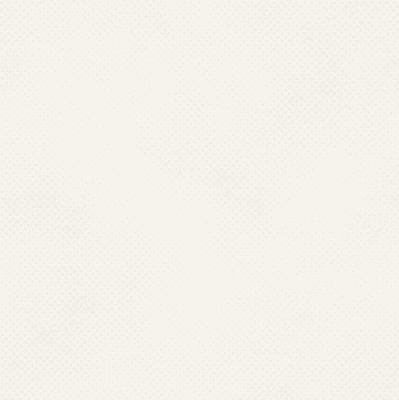
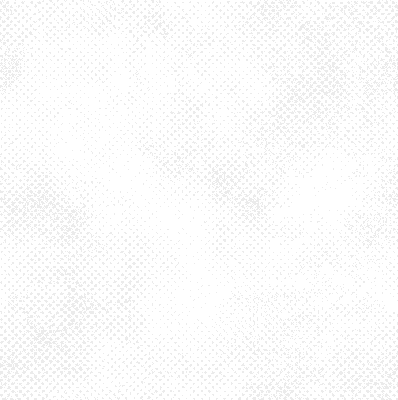
fixed background and social box

diff --git a/css/master.css b/css/master.css
@@ -2,9 +2,8 @@ a {
   color: #947848; }
 
 body {
-  background-image: url('../img/bkg-3.png'), -webkit-gradient(linear, left top, right top, from(black), color-stop(32%, white), color-stop(68%, white), to(black));
-  background-image: url('../img/bkg-3.png'), -webkit-linear-gradient(left, black 0%, white 32%, white 68%, black 100%);
-  background-image: url('../img/bkg-3.png'), linear-gradient(to right, black 0%, white 32%, white 68%, black 100%); }
+  background-image: url('../img/bkg-3.png'), -webkit-radial-gradient(center, ellipse, #FBF4E7 40%, #88682E 110%);
+  background-image: url('../img/bkg-3.png'), radial-gradient(ellipse at center, #FBF4E7 40%, #88682E 110%); }
 
 /* wrapper */
 .wrapper, .wrap {
@@ -28,6 +27,8 @@ body {
 header 
 ==========================================================*/
 .header {
+  position: relative;
+  z-index: 2;
   height: 680px;
   background: url('../img/home-bkg-1.jpg');
   background-size: cover;
@@ -56,7 +57,7 @@ logo
 .logo {
   top: -32px;
   right: 0;
-  width: 620px;
+  width: 625px;
   display: block;
   position: absolute;
   padding: 10px; }
@@ -142,7 +143,7 @@ banner
 footer items
 =================================================================== */
 .footer-items {
-  padding: 25px 0;
+  padding: 0 0;
   color: #525252; }
   .footer-items ul {
     padding-left: 0; }
@@ -186,7 +187,17 @@ footer {
   background: url('../img/home-bkg-2.jpg');
   background-size: cover;
   -webkit-box-shadow: 0 1px 8px rgba(0, 0, 0, 0.8);
-          box-shadow: 0 1px 8px rgba(0, 0, 0, 0.8); }
+          box-shadow: 0 1px 8px rgba(0, 0, 0, 0.8);
+  position: relative;
+  z-index: 2; }
+
+.bkg-3 {
+  background: url('../img/bkg-3.png'), -webkit-radial-gradient(center, ellipse, #FBF4E7 40%, #88682E 110%);
+  background: url('../img/bkg-3.png'), radial-gradient(ellipse at center, #FBF4E7 40%, #88682E 110%);
+  -webkit-box-shadow: 0 1px 8px rgba(0, 0, 0, 0.8);
+          box-shadow: 0 1px 8px rgba(0, 0, 0, 0.8);
+  position: relative;
+  z-index: 1; }
 
 .black-trans {
   background: rgba(12, 12, 12, 0.8); }
@@ -318,7 +329,8 @@ input[type='text'], input[type='email'], input[type='url'], textarea {
   box-sizing: border-box;
   -webkit-transition: all 0.3s ease;
   transition: all 0.3s ease;
-  resize: none; }
+  resize: none;
+  background: rgba(255, 255, 255, 0.7); }
 
 input:focus, textarea:focus {
   outline: none;
@@ -397,7 +409,7 @@ input[type='button'], input[type='submit'], .button, [class^="btn-"] {
       background: none !important; }
 
 .social-header {
-  margin-top: 150px;
+  margin: 151px 65px;
   padding: 30px;
   display: inline-block;
   text-align: center; }

diff --git a/sass/master.scss b/sass/master.scss
@@ -40,7 +40,7 @@ $color-4:#C53F24;
 $color-5:linear-gradient(to right, #877b71 0%,#f4eae2 32%,#f4eae2 68%,#877b71 100%);
 $color-6:#C3C9CA;
 $bkg-2:url('../img/home-bkg-2.jpg');
-$bkg-3: url('../img/bkg-3.png'), linear-gradient(to right, black 0%,white 32%,white 68%,black 100%);
+$bkg-3: url('../img/bkg-3.png'), radial-gradient(ellipse at center, #FBF4E7 40%, #88682E 110%);
 $shadow-1:0 1px 8px rgba(0, 0, 0, 0.8);
 
 a {
@@ -76,6 +76,8 @@ body {
 header 
 ==========================================================*/
 .header {
+  position:relative;
+  z-index: 2;
   height: 680px;
   background: url('../img/home-bkg-1.jpg');
     background-size: cover;
@@ -85,25 +87,23 @@ header
 /* business information across the top of header */
 
 .business-info {
-    padding: 5px;
-      a {
-
-        color: $color-2;
-    }
-    .top-wdgt-l {
-      color:$grey-1;
-      float: left;
-    }
-     .top-wdgt-r {
-      color:$grey-1;
-      float: right;
-    }
-
-      li {
-        display: inline-block;
-        margin-left: 20px;
-        color: white;
-    }
+  padding: 5px;
+    a {
+      color: $color-2;
+  }
+  .top-wdgt-l {
+    color:$grey-1;
+    float: left;
+  }
+   .top-wdgt-r {
+    color:$grey-1;
+    float: right;
+  }
+    li {
+      display: inline-block;
+      margin-left: 20px;
+      color: white;
+  }
 }
 
 /* ==============================================================
@@ -113,7 +113,7 @@ logo
 .logo {
   top: -32px;
   right: 0;
-  width: 620px;
+  width: 625px;
   display: block;
   position: absolute;
   padding:10px;
@@ -222,7 +222,7 @@ footer items
 =================================================================== */
 
 .footer-items {
-    padding: 25px 0;
+    padding: 0 0;
     color: rgb(82, 82, 82);
     ul {
       padding-left:0;
@@ -275,6 +275,15 @@ footer {
   background:$bkg-2;
   background-size:cover;
   box-shadow:$shadow-1;
+  position:relative;
+  z-index: 2;
+}
+
+.bkg-3 {
+  background:$bkg-3;
+  box-shadow:$shadow-1;
+  position:relative;
+  z-index: 1;
 }
 
 .black-trans {
@@ -435,6 +444,7 @@ ul li, ol li {line-height: 130%;}
     -o-transition: all .3s ease;
     transition: all .3s ease;
     resize: none;
+    background:rgba(255, 255, 255, 0.7);
   }
 
 
@@ -514,7 +524,7 @@ input[type='button'], input[type='submit'], .button, [class^="btn-"]  {
 }
 
 .social-header {
-  margin-top:150px;
+  margin: 151px 65px;
   padding:30px;
   display: inline-block;
   text-align: center;

diff --git a/page.php b/page.php
@@ -10,8 +10,7 @@
 
 				<?php the_content(); ?>
 
-				<?php comments_template( '', true ); // Remove if you don't want comments ?>
-
+			
 				<br class="clear">
 
 			</article>
